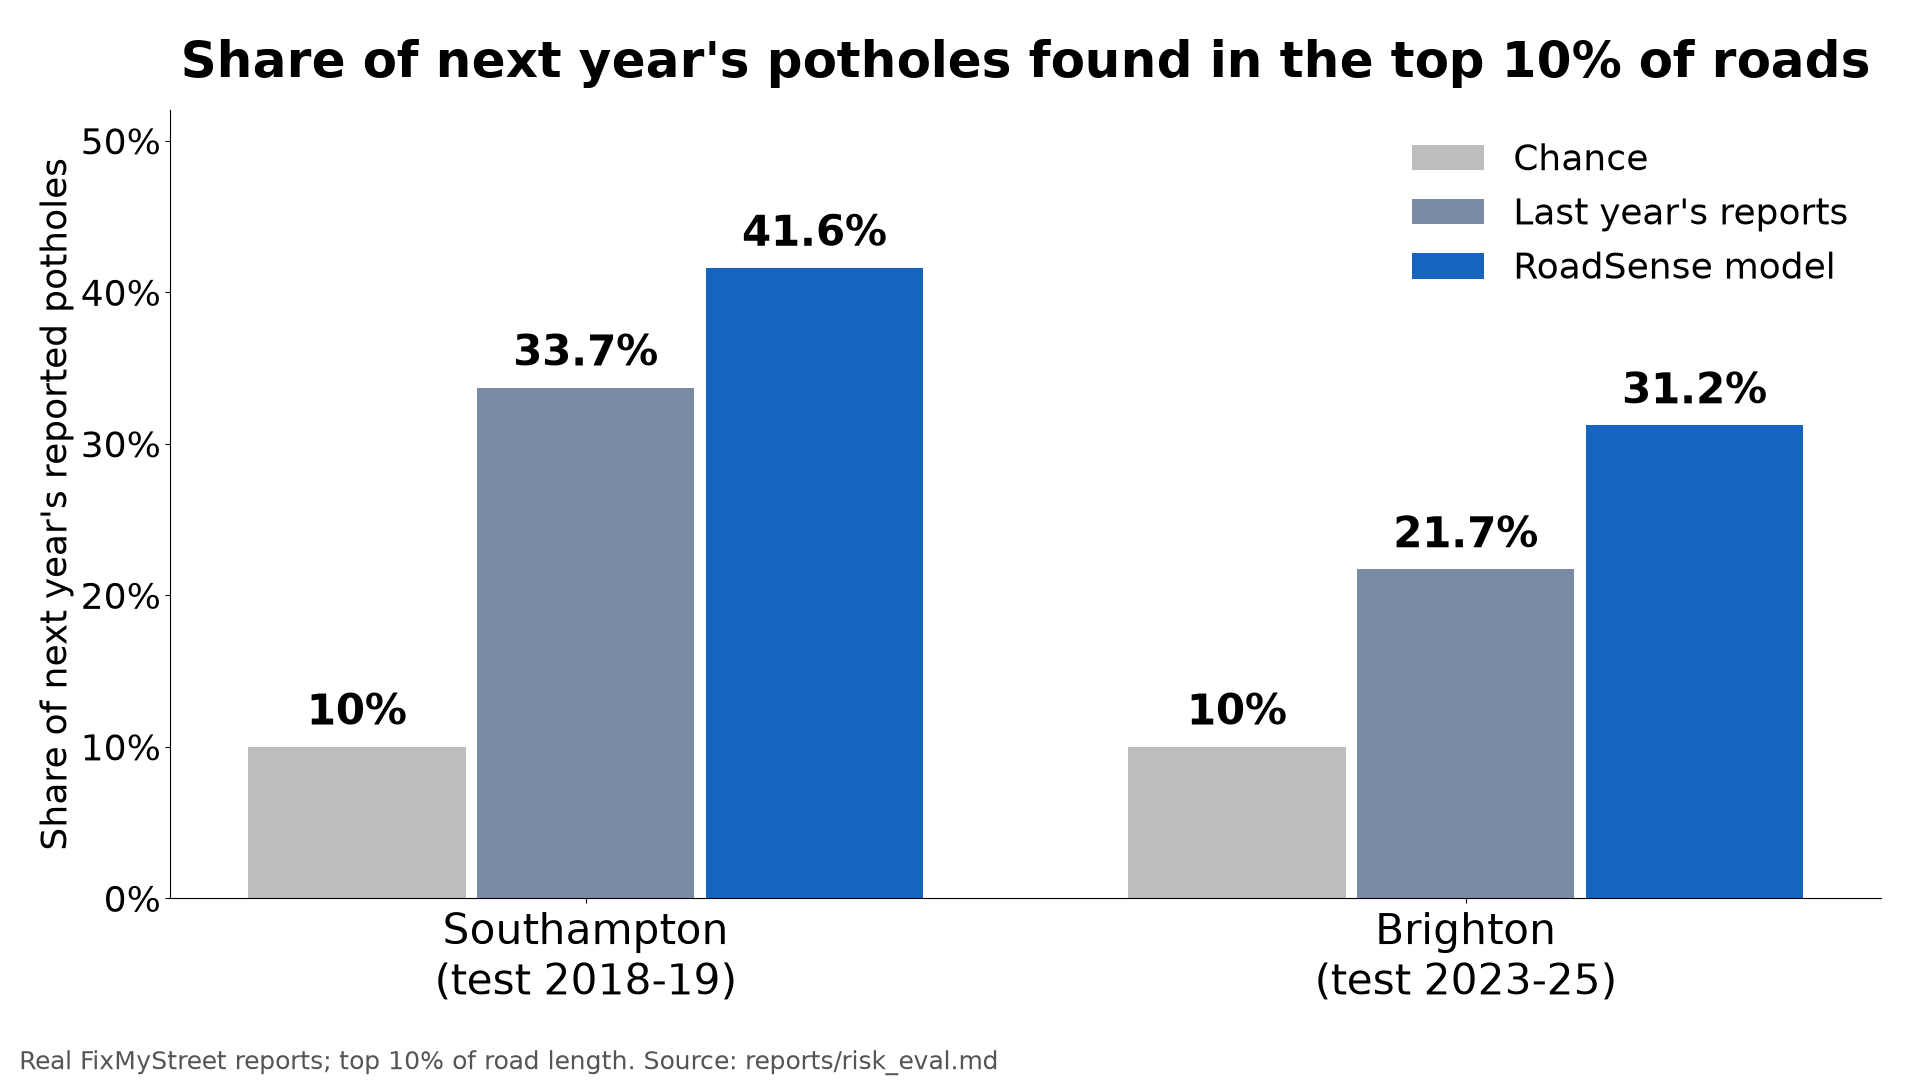
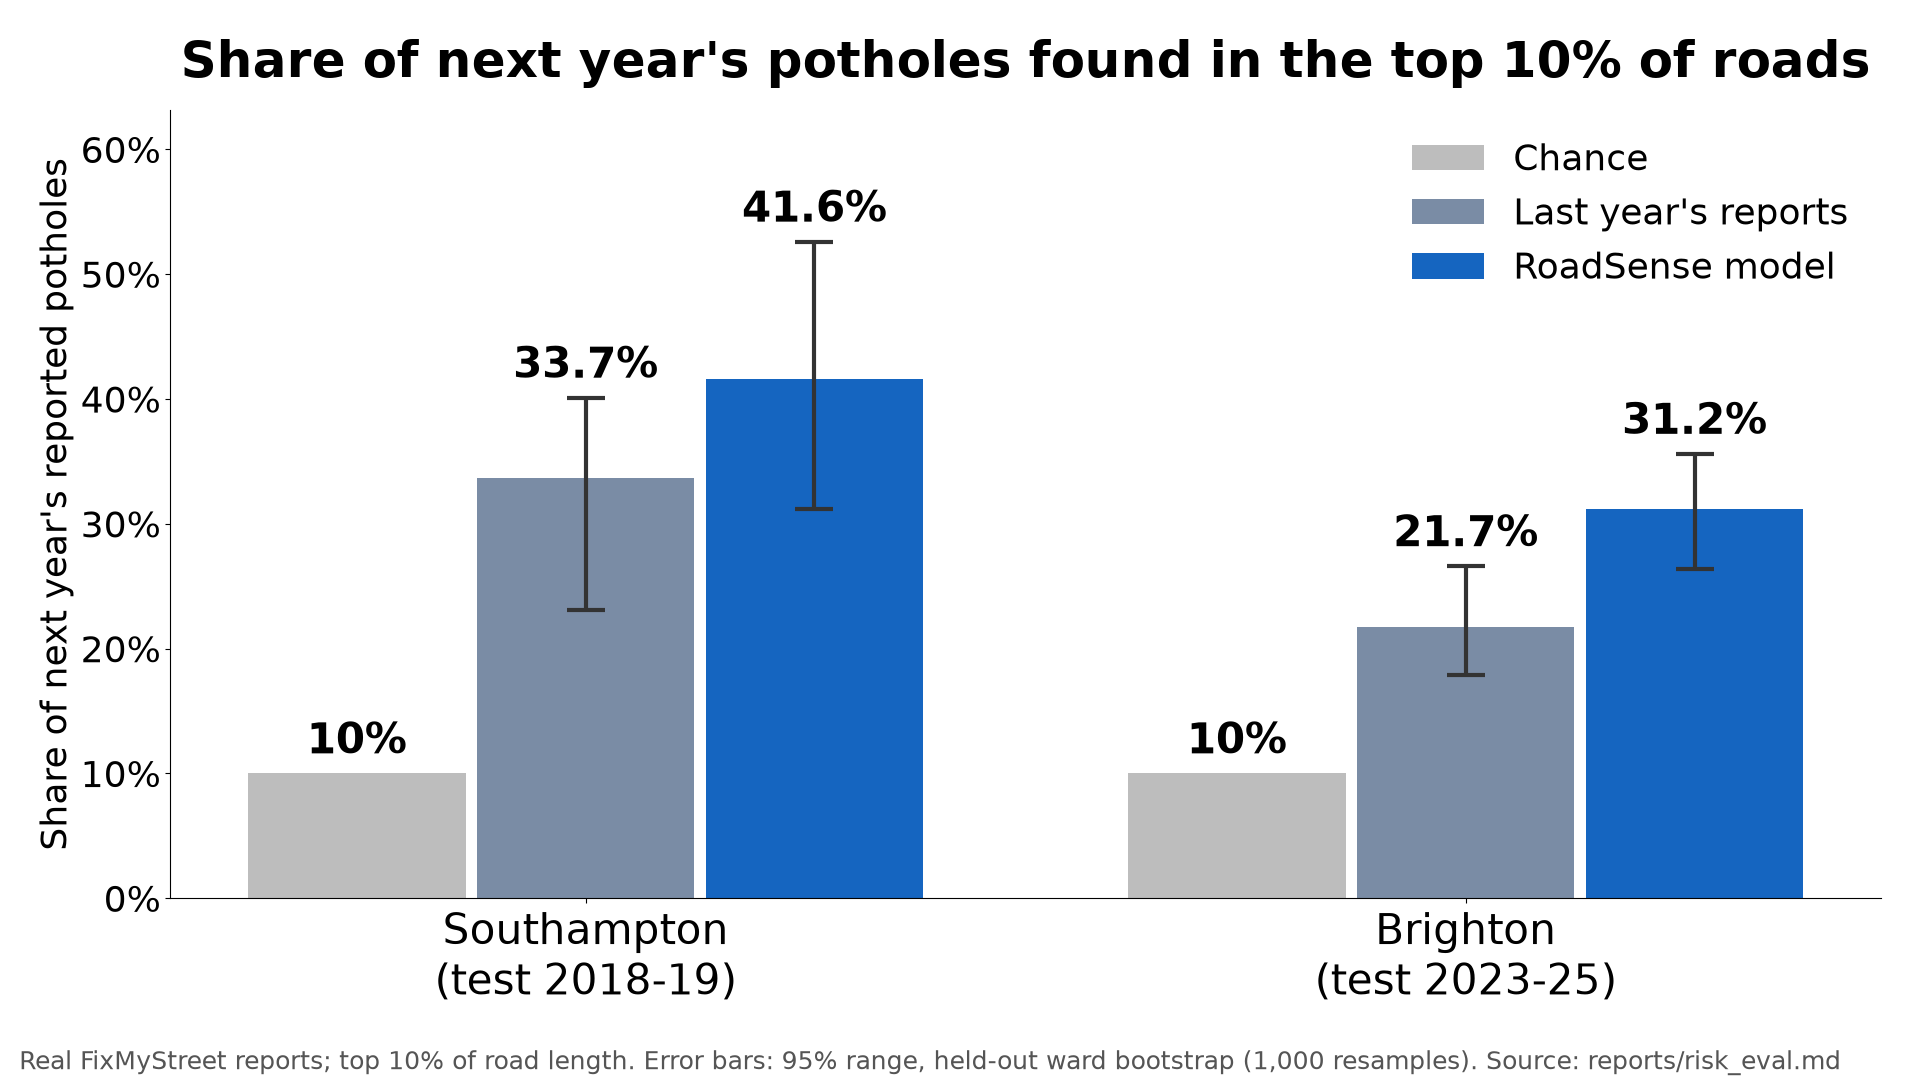
Contract for tonight's fields; CI error bars on the evidence chart
- schemas.md sections 13-19: display road names (slip roads), extra risk/lights/plan
  columns, model_version formats, map-only city endpoints (open reports, inspection list,
  city card), triage cache files, lane B model and evaluation files.
- tests/test_contract.py checks those fields exist with the right types (risk, lights,
  plan names, triage caches, Brighton inspection rows).
- pitch/make_evidence_chart.py adds 95% error bars from the held-out ward bootstrap in
  reports/risk_eval.md; chance stays a plain 10% bar. Chart regenerated, same size.

diff --git a/tests/test_contract.py b/tests/test_contract.py
@@ -170,3 +170,109 @@ def test_plan_confirmations():
         "confirmed_source_id is required when confirmed_by is set"
     crew = plan.loc[by == "crew", "confirmed_is_synthetic"].astype(str).str.strip().str.lower()
     assert crew.isin(["true", "false", "1", "0"]).all(), "confirmed_is_synthetic must be true/false on crew rows"
+
+
+# --- additions, 17 Oct evening (schemas.md sections 13-19) ---------------------------------------
+def _is_str(s):
+    return s.dropna().map(lambda v: isinstance(v, str)).all()
+
+
+def _is_bool(s):
+    return pd.api.types.is_bool_dtype(s) or s.dropna().isin([True, False]).all()
+
+
+RISK_EXTRA = {"weather_basis": "str", "inputs_mock": "bool", "as_of": "str", "model_version": "str",
+              "reason_1": "str", "reason_2": "str", "reason_3": "str"}
+RISK_REAL_EXTRA = {"weather_multiplier": "float", "p_report_year": "float", "lambda_year": "float", "rank_pct": "float",
+                   "history_source": "str", "trained_on": "str"}
+
+
+def _check_types(df, spec, name):
+    assert not missing(df, list(spec)), f"{name}: missing {missing(df, list(spec))}"
+    for c, t in spec.items():
+        if t == "str":
+            assert _is_str(df[c]), f"{name}.{c} should be str"
+        elif t == "bool":
+            assert _is_bool(df[c]), f"{name}.{c} should be bool"
+        elif t == "float":
+            assert pd.api.types.is_numeric_dtype(df[c]), f"{name}.{c} should be numeric"
+        elif t == "date":
+            assert pd.to_datetime(df[c].dropna().astype(str), format="%Y-%m-%d", errors="coerce").notna().all(), \
+                f"{name}.{c} should be a YYYY-MM-DD date"
+
+
+@pytest.mark.parametrize("fname", sorted(RISK_FILES))
+def test_risk_extra_columns(fname):
+    r = load(os.path.join(OUT, fname))
+    _check_types(r, RISK_EXTRA, fname)
+    assert r.model_version.str.match(r"^risk@\d{4}-\d{2}-\d{2}T\d{2}:\d{2}$").all(), "model_version is risk@<UTC time>"
+    reasons = pd.concat([r.reason_1, r.reason_2, r.reason_3]).dropna()
+    assert not reasons.str.contains("in the ward last year").any(), "ward weather is never a reason (2-6 values per city)"
+    if fname != "risk_synthetic_latest.parquet":
+        _check_types(r, RISK_REAL_EXTRA, fname)
+        assert r.rank_pct.between(0, 1).all() and (r.lambda_year >= 0).all()
+    if fname == "risk_brighton_latest.parquet":
+        _check_types(r, {"city": "str", "scale_source": "str"}, fname)
+        assert (r.weather_multiplier == 1.0).all()
+
+
+def test_lights_extra_columns():
+    l = load(os.path.join(OUT, "lights_latest.parquet"))
+    _check_types(l, {"unit_install_date": "date", "burn_hours": "float", "replacement_overdue": "bool",
+                     "is_synthetic": "bool", "model_version": "str", "source": "str", "as_of": "str"}, "lights")
+    assert l.model_version.str.startswith("lights@").all()
+
+
+def test_plan_names_and_extra_columns(seg):
+    path = os.path.join(OUT, "prevention_plan_latest.csv")
+    if not os.path.exists(path):
+        pytest.skip("no outputs/prevention_plan_latest.csv yet")
+    plan = pd.read_csv(path)
+    assert not missing(plan, ["highway", "reasons", "cost_logic", "model_version", "history_source", "value_badge",
+                              "preventive_treatment", "labels_synthetic", "wear_synthetic"])
+    links = plan[plan.highway.astype(str).str.endswith("_link")]
+    assert not links.name.astype(str).str.fullmatch(r"Unnamed \w+_link road").any(), \
+        "unnamed slip roads use 'Slip road off ...' or 'Unnamed slip road near <ward>' (section 13)"
+
+
+TRIAGE_REPORT = {"report_id": str, "fms_id": int, "reported_at": str, "lat": float, "lon": float, "title": str,
+                 "category": str, "method": str, "merged_into": (str, type(None)), "status": str,
+                 "segment_id": (str, type(None)), "risk_band": (str, type(None))}
+
+
+def test_triage_caches():
+    import glob
+    import json
+    files = sorted(glob.glob(os.path.join(OUT, "lane_c", "triage_*.json")))
+    files = [f for f in files if not f.endswith("triage_vs_keywords.json")]
+    if not files:
+        pytest.skip("no outputs/lane_c/triage_<city>.json yet")
+    for f in files:
+        t = json.load(open(f, encoding="utf-8"))
+        for k in ["city", "generated_at", "window_days", "count", "methods", "reports"]:
+            assert k in t, f"{os.path.basename(f)}: missing {k}"
+        assert t["count"] == len(t["reports"]) and set(t["methods"]) <= {"gemini", "keyword"}
+        for r in t["reports"]:
+            for k, typ in TRIAGE_REPORT.items():
+                assert k in r and isinstance(r[k], typ), f"{os.path.basename(f)}: {k} should be {typ}"
+            assert r["category"] in {"pothole", "streetlight", "other"}
+            assert r["status"] in {"triaged", "merged", "not on a council road"}
+
+
+def test_brighton_inspection_rows():
+    """schemas.md section 17: inspection rows are real-only, open reports first, no p30 or money."""
+    if not os.path.exists(os.path.join(OUT, "risk_brighton_latest.parquet")):
+        pytest.skip("no Brighton risk file")
+    from roadsense.api.cities import CityView
+    from roadsense.prevent import inputs as I
+    cfg = I.load_config()
+    view = CityView(cfg, "Brighton")
+    out = view.inspection_list(pd.DataFrame(), cfg, top_n=50)
+    assert [s["key"] for s in out["sections"]] == ["open", "risk"]
+    row_keys = {"rank", "section", "segment_id", "name", "ward", "highway", "risk_band", "risk_label", "reasons", "action",
+                "open_report", "open_reports", "history_source", "uses_synthetic"}
+    for r in out["rows"]:
+        assert row_keys <= set(r) and not ({"p30", "p7", "treatment", "cost_planned_gbp"} & set(r))
+        assert isinstance(r["rank"], int) and isinstance(r["reasons"], list) and isinstance(r["open_report"], bool)
+        assert r["risk_band"] in {"top1", "top5", "top10", "rest"} and r["action"] == "Inspect"
+        assert r["history_source"] == "real" and r["uses_synthetic"] is False

diff --git a/pitch/make_evidence_chart.py b/pitch/make_evidence_chart.py
@@ -3,8 +3,9 @@
     python pitch/make_evidence_chart.py
 
 Reads the numbers from reports/risk_eval.md (real FixMyStreet test years: Southampton 2018-19,
-Brighton 2023-25) and writes pitch/evidence_chart.png at 1920x1080. Chance is 10% by construction
-(the top 10% of road length catches 10% of reports at random).
+Brighton 2023-25) and writes pitch/evidence_chart.png at 1920x1080. Error bars are the 95% ranges from
+the held-out ward bootstrap ("Test years (held out ...)" table, python -m roadsense.models.eval_ci).
+Chance is 10% by construction (the top 10% of road length catches 10% of reports at random), no bar.
 """
 from __future__ import annotations
 
@@ -38,40 +39,63 @@ def read_city(text: str, city: str) -> tuple[float, float]:
     return value("model"), value("last year reports")
 
 
+def read_ci(text: str, city: str) -> tuple[tuple[float, float], tuple[float, float]]:
+    """95% ranges (%) for model and baseline from the held-out ward-bootstrap table."""
+    m = re.search(r"### Test years \(held out[^\n]*\n(.*?)\n\n", text, re.S)
+    if not m:
+        raise SystemExit(f"held-out bootstrap table ('### Test years (held out ...') not found in {REPORT}")
+    row = re.search(rf"^\| {city} [^|]*\| [\d.]+% \(([\d.]+)% to ([\d.]+)%\) \| [\d.]+% \(([\d.]+)% to ([\d.]+)%\) \|",
+                    m.group(1), re.M)
+    if not row:
+        raise SystemExit(f"{city} row not found in the held-out bootstrap table in {REPORT}")
+    a, b, c, d = map(float, row.groups())
+    return (a, b), (c, d)
+
+
 def main() -> None:
     text = REPORT.read_text(encoding="utf-8")
     cities = [("Southampton", "2018-19"), ("Brighton", "2023-25")]
     vals = {c: read_city(text, c) for c, _ in cities}
+    cis = {c: read_ci(text, c) for c, _ in cities}
 
     plt.rcParams.update({"font.size": 26, "font.family": "DejaVu Sans"})
     fig, ax = plt.subplots(figsize=(19.2, 10.8), dpi=100, facecolor="white")
     ax.set_facecolor("white")
-    series = [("Chance", "#bdbdbd", lambda c: CHANCE),
-              ("Last year's reports", "#7a8ca5", lambda c: vals[c][1]),
-              ("RoadSense model", "#1565c0", lambda c: vals[c][0])]
+    series = [("Chance", "#bdbdbd", lambda c: CHANCE, None),
+              ("Last year's reports", "#7a8ca5", lambda c: vals[c][1], lambda c: cis[c][1]),
+              ("RoadSense model", "#1565c0", lambda c: vals[c][0], lambda c: cis[c][0])]
     width = 0.26
     xs = range(len(cities))
-    for i, (label, colour, get) in enumerate(series):
+    for i, (label, colour, get, get_ci) in enumerate(series):
         pos = [x + (i - 1) * width for x in xs]
         heights = [get(c) for c, _ in cities]
-        bars = ax.bar(pos, heights, width=width * 0.95, color=colour, label=label)
-        for b, h in zip(bars, heights):
-            ax.text(b.get_x() + b.get_width() / 2, h + 0.8, f"{h:.1f}%" if h != CHANCE else "10%",
+        yerr = None
+        tops = heights
+        if get_ci:
+            lo_hi = [get_ci(c) for c, _ in cities]
+            yerr = [[h - lo for h, (lo, hi) in zip(heights, lo_hi)], [hi - h for h, (lo, hi) in zip(heights, lo_hi)]]
+            tops = [hi for lo, hi in lo_hi]
+        bars = ax.bar(pos, heights, width=width * 0.95, color=colour, label=label, yerr=yerr,
+                      error_kw={"elinewidth": 3, "capsize": 14, "capthick": 3, "ecolor": "#333333"})
+        for b, h, t in zip(bars, heights, tops):
+            ax.text(b.get_x() + b.get_width() / 2, t + 0.8, f"{h:.1f}%" if h != CHANCE else "10%",
                     ha="center", va="bottom", fontsize=30, fontweight="bold")
     ax.set_xticks(list(xs))
     ax.set_xticklabels([f"{c}\n(test {years})" for c, years in cities], fontsize=30)
     ax.set_ylabel("Share of next year's reported potholes")
-    ax.set_ylim(0, max(v for pair in vals.values() for v in pair) * 1.25)
+    ax.set_ylim(0, max(hi for pair in cis.values() for _, hi in pair) * 1.2)
     ax.yaxis.set_major_formatter(matplotlib.ticker.FuncFormatter(lambda v, _: f"{v:.0f}%"))
     for side in ("top", "right"):
         ax.spines[side].set_visible(False)
     ax.set_title("Share of next year's potholes found in the top 10% of roads", fontsize=36, fontweight="bold", pad=24)
     ax.legend(loc="upper right", frameon=False, fontsize=26)
-    fig.text(0.01, 0.01, "Real FixMyStreet reports; top 10% of road length. Source: reports/risk_eval.md",
+    fig.text(0.01, 0.01, "Real FixMyStreet reports; top 10% of road length. Error bars: 95% range, held-out ward "
+             "bootstrap (1,000 resamples). Source: reports/risk_eval.md",
              fontsize=18, color="#555555")
     fig.tight_layout(rect=(0, 0.03, 1, 1))
     fig.savefig(OUT, dpi=100, facecolor="white")
-    print(f"wrote {OUT}: " + "; ".join(f"{c} model {vals[c][0]}% vs baseline {vals[c][1]}%" for c, _ in cities))
+    print(f"wrote {OUT}: " + "; ".join(f"{c} model {vals[c][0]}% {cis[c][0]} vs baseline {vals[c][1]}% {cis[c][1]}"
+                                       for c, _ in cities))
 
 
 if __name__ == "__main__":

diff --git a/schemas.md b/schemas.md
@@ -243,3 +243,90 @@ Source: MapIt (mySociety), boundaries from ONS/OS, OGL, for Southampton and Brig
 `[{name, label, used_for, licence, retrieved_at, data_date, is_synthetic}]`, one entry per real source (OSM, MapIt wards,
 DfT, Open-Meteo, EA flood, FixMyStreet). `retrieved_at` is ISO UTC; `data_date` is the newest date the data describes.
 Lane B appends its synthetic generators (`is_synthetic: true`) or lane C adds them from `data/synthetic/_meta.json`.
+
+---
+
+# Additions, 17 Oct evening (lane B; fields added after sections 7-12 were agreed)
+Each item below says which section it extends. Checked by `tests/test_contract.py`.
+
+## 13. Display road names (extends section 2; computed, not a stored column)
+The page and every output that shows a road name use `roadsense.prevent.inputs.display_names(seg)`:
+OSM `name`, else `ref`, else for an unnamed slip road (`highway` ending `_link`) **"Slip road off <ref or name>"** of the
+road it joins (walking connected unnamed slip-road pieces, up to 6), else **"Unnamed slip road near <ward>"**; any other
+unnamed road stays "Unnamed <highway> road". `segments.parquet` itself is unchanged. Plan CSVs (section 9) and the
+Brighton map/inspection list carry the display name in `name`.
+
+## 14. Extra columns in the risk files (extends section 7)
+| Column | Type | Files | Notes |
+|---|---|---|---|
+| weather_basis | str | all three | `observed`, `forecast`, `climatology_10y`, or `none (...)` for Brighton |
+| weather_multiplier | float | risk_latest, risk_brighton | ward-week weather multiplier applied to the yearly risk; 1.0 for Brighton |
+| p_report_year | float 0–1 | risk_latest, risk_brighton | real-label model's yearly probability of a FixMyStreet report on the segment |
+| lambda_year | float ≥ 0 | risk_latest, risk_brighton | expected potholes a year = risk share × city total (Southampton FOI 2025; Brighton assumed, see `scale_source`) |
+| rank_pct | float 0–1 | risk_latest, risk_brighton | within-city percentile of `p_report_year` (Brighton bands: ≥0.99 top 1%, ≥0.95 top 5%, ≥0.90 top 10%) |
+| inputs_mock | bool | all three | true only if lane A inputs were mocked |
+| as_of | str | all three | `YYYY-MM-DD`, Monday the forecast weeks follow |
+| city | str | risk_brighton | `Brighton` |
+| scale_source | str | risk_brighton | how Brighton's yearly total was set (an assumption: Southampton repairs per km × Brighton road length) |
+
+- `model_version`: `risk@<YYYY-MM-DDTHH:MM>` (UTC run time) on every row of every risk file; `lights@<...>` in section 8.
+- `reason_1..3`: plain English. Last year's ward weather is **never** a reason (only 2–6 distinct values per city).
+  History reasons say whether they come from FixMyStreet (real) or the synthetic council log ("synthetic council log, scaled").
+- `risk_synthetic_latest.parquet` has the section 7 columns plus `weather_basis`, `inputs_mock`, `as_of`;
+  `trained_on = synthetic`.
+
+## 15. Extra columns in the lights file (extends section 8)
+| Column | Type | Notes |
+|---|---|---|
+| unit_install_date | date | install date of the unit in service (after replacements) |
+| burn_hours | float | burn hours on that unit at `as_of` (sunset to sunrise, minus the 01:00–05:30 switch-off from 1 Dec 2023) |
+| replacement_overdue | bool | cumulative failure already ≥ 0.5 |
+| is_synthetic | bool | always true (synthetic lamp register) |
+| model_version | str | `lights@<YYYY-MM-DDTHH:MM>` |
+| source | str | model and synthetic inputs used |
+| as_of | str | `YYYY-MM-DD` |
+
+## 16. Extra columns in the plan CSVs (extends section 9)
+Beyond the section 9 list the plan files also carry: `highway, consequence, consequence_text, reasons` (the three
+reasons joined), `cost_logic` (the £ working as text), `esal_day, traffic_note, weather_source, model_version, as_of,
+labels_synthetic, history_source, wear_synthetic, inputs_mock, p30_w0, value_badge` ("Pays back ×N", "Loss maker ×N",
+"Confirmed: must fix ×N", "Simulated crew report"), and for confirmed rows the segment's own preventive suggestion:
+`preventive_treatment, preventive_treatment_label, preventive_treatment_cost_gbp, preventive_reactive_cost_avoided_gbp,
+preventive_avoided_per_gbp`. `outputs/prevention_plan_worth_treating_<as_of>.csv` has the same columns, `worth_treating` rows only.
+
+## 17. Map-only city endpoints (extends section 10)
+- `GET /reports/open?city=Brighton` → `{count, window_days, urgency: null, city, source, retrieved_at, reports: [{id, category,
+  reported_at, status, lat, lon, title}]}`. Same 120-day open window as Southampton; titles redacted.
+- `GET /plan/inspection?city=Brighton&top_n=50` → `{city, header, badge, sections, count, open_report_rows, top_n,
+  window_days, model_version, trained_on, uses_synthetic, history_source, as_of, path, rows}`.
+  `sections`: `[{key: "open", label: "Open reports (inspect first)", count, note}, {key: "risk", label: "Highest predicted risk", count, note}]`.
+  Each row: `rank (int), section ("open"|"risk"), segment_id, name (section 13), ward, highway, risk_band
+  ("top1"|"top5"|"top10"|"rest"), risk_label, reasons (list of str), action ("Inspect"), open_report (bool),
+  open_reports ([{id, reported_at, title}]), history_source, uses_synthetic (bool)`. No p30, treatment or £ fields.
+  400 for the home city (use `/plan/prevention`).
+- `GET /triage/city?city=Brighton` → the triage cache (section 18); 404 if not built.
+- `GET /segments/{id}?city=Brighton` → card with `risk_band, risk_label, reasons, badge, note` (no p30 or rank numbers).
+
+## 18. Triage caches: `outputs/lane_c/triage_<city>.json` (lane C writes with `python -m roadsense.agent.city_triage <city>`)
+Read-only triage for a map-only city, so the demo never waits on live Gemini. Only Brighton is built on main;
+Southampton's triage is live (`POST /reports`) and its queue lives in `outputs/lane_c/state.json`, which is not in git.
+| Field | Type | Notes |
+|---|---|---|
+| city, generated_at, window_days, limit, count, methods, source, retrieved_at, note | str / int / list | `methods` ⊆ {`gemini`, `keyword`}; `count` = number of reports |
+| reports[] | list of objects | most recent first |
+| reports[].report_id, fms_id | str, int | `fms-<id>` and the FixMyStreet request id |
+| reports[].reported_at, lat, lon, title | str, float, float, str | title redacted (no names, house numbers or postcodes) |
+| reports[].category, method, model | str, str, str or null | category ∈ {`pothole`, `streetlight`, `other`} |
+| reports[].segment_id, segment_name, ward, snap_m | str or null, str or null, str or null, float or null | null when not within 30 m of a council road |
+| reports[].risk_band, risk_label, rank_pct | str or null, str or null, float or null | from `risk_<city>_latest.parquet` |
+| reports[].merged_into, status | str or null, str | status ∈ {`triaged`, `merged`, `not on a council road`} |
+
+## 19. Lane B model and evaluation files (`data/models/`, `reports/`)
+- `data/models/real_risk_model.txt` (LightGBM, LF line endings) + `real_risk_model.json` (`features`, `city_categories`,
+  `trained_rows`, `trained_cities`, `city_total_potholes_year`, `history_years`, `history_source`, `generated_at`):
+  the model that ranks `risk_latest` and `risk_brighton_latest`.
+- `data/models/risk_y7.txt`, `risk_y30.txt` + `*_calibrator.pkl`: synthetic-trained weekly model (`risk_synthetic_latest`, what-if).
+- `data/models/real_risk_eval.json`, `eval_ci.json`, `risk_eval.json`, `lights_weibull.json`: evaluation results behind
+  `reports/risk_eval.md`, `reports/real_risk_eval.md`, `reports/lights_eval.md`.
+- `outputs/lane_c/demo_check.md` (demo dry run) and `outputs/lane_c/token_log.jsonl` (Gemini token counts for
+  `reports/cost.md`): lane C working files, not read by other lanes.
